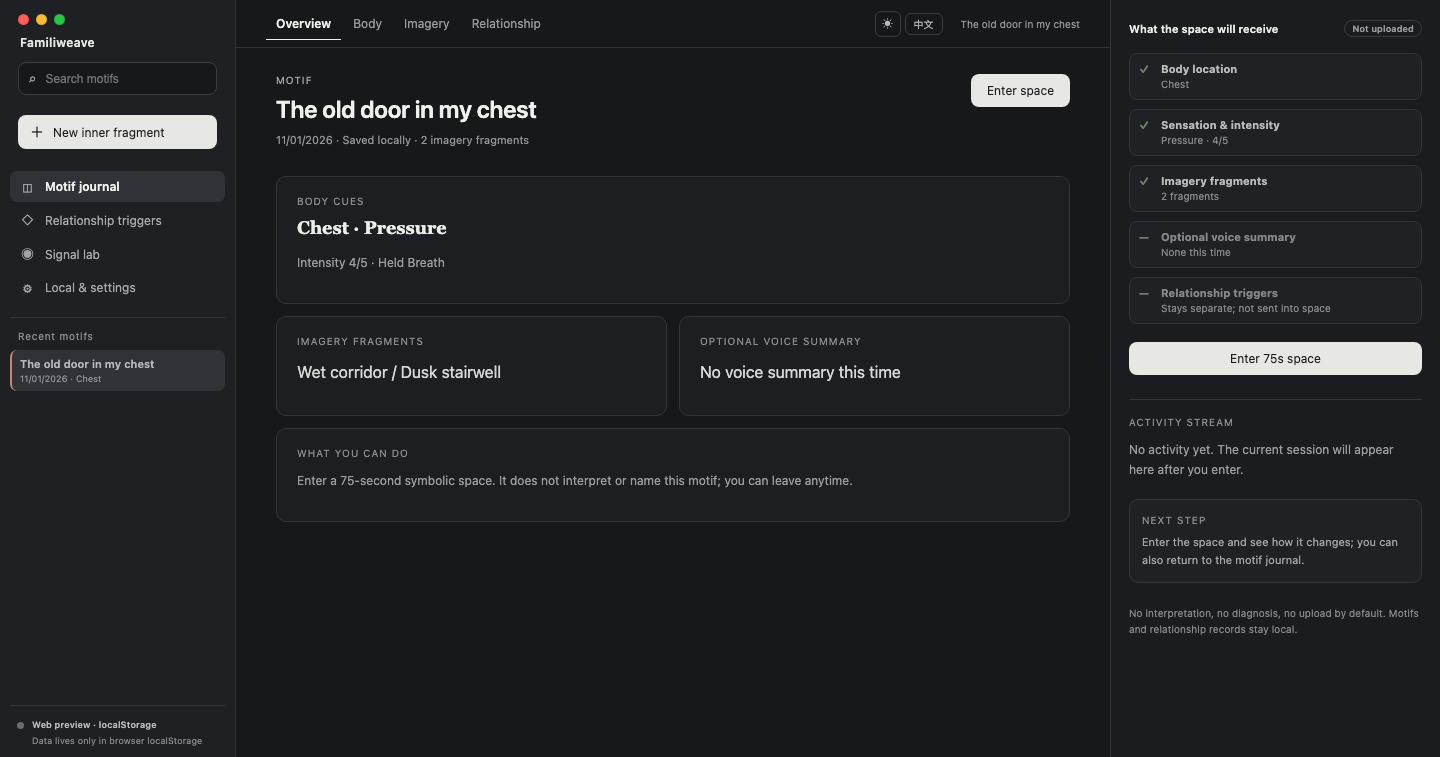
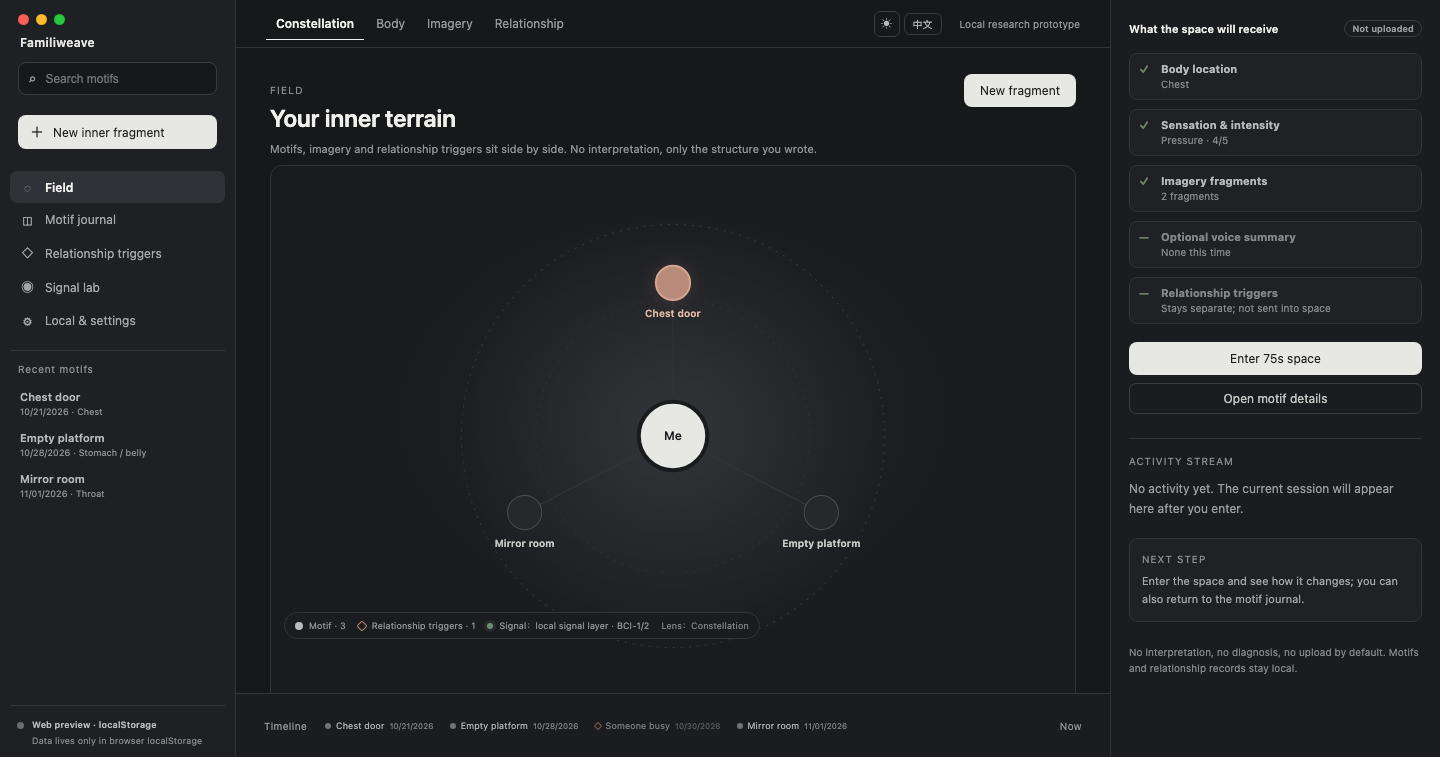
Add the Familiweave Field layout with constellation and timeline
- make Field the default workspace: motif nodes, relationship nodes, self centre, lens switch and signal legend
- add a horizontal motif/relationship timeline and keep the instrument rail for selected motif/space inputs
- preserve capture, journal, relationship, lab and space as separate modes
- update light/dark English screenshots, READMEs and desktop shell docs
- 55 tests, 307,046 B main, 47,570 B CSS

diff --git a/src/desktop-shell.tsx b/src/desktop-shell.tsx
@@ -18,10 +18,12 @@ import { useTheme } from './theme'
 import { getDbStatus, getHostInfo, isTauriRuntime, type DbStatus, type HostInfo } from './host'
 import { fragments, regions, sensations, breaths } from './somatic'
 
-type View = 'new' | 'motif' | 'journal' | 'relationship' | 'lab' | 'settings' | 'space'
+type View = 'field' | 'new' | 'motif' | 'journal' | 'relationship' | 'lab' | 'settings' | 'space'
+type FieldLens = 'constellation' | 'body' | 'imagery' | 'relations'
 type DetailTab = 'overview' | 'body' | 'imagery' | 'relationship'
 
 const navItems: Array<{ id: Exclude<View, 'motif' | 'space'>; label: string; icon: string }> = [
+  { id: 'field', label: '场域', icon: '◌' },
   { id: 'journal', label: '母题日记', icon: '◫' },
   { id: 'relationship', label: '关系触发点', icon: '◇' },
   { id: 'lab', label: '信号实验台', icon: '◉' },
@@ -114,7 +116,73 @@ function MotifDetail({ motif, tab, setTab, onEnter }: { motif: MotifEntry; tab: 
   </>
 }
 
-function ContextPanel({ motif, encounter, onEnter, onBack }: { motif: MotifEntry | null; encounter: Encounter | null; onEnter: () => void; onBack: () => void }) {
+function FieldView({ motifs, relationships, selectedId, lens, onSelect, onNew }: { motifs: MotifEntry[]; relationships: RelationshipTrigger[]; selectedId: string | null; lens: FieldLens; onSelect: (id: string) => void; onNew: () => void }) {
+  const { lang, t } = useLanguage()
+  const center = { x: 380, y: 268 }
+  const motifNodes = motifs.slice(0, 14).map((motif, index) => {
+    const angle = (Math.PI * 2 * index) / Math.max(motifs.slice(0, 14).length, 1) - Math.PI / 2
+    return { motif, x: center.x + Math.cos(angle) * 170, y: center.y + Math.sin(angle) * 152, angle }
+  })
+  const relationNodes = relationships.slice(0, 10).map((entry, index) => {
+    const angle = (Math.PI * 2 * index) / Math.max(relationships.slice(0, 10).length, 1) + Math.PI / 7
+    return { entry, x: center.x + Math.cos(angle) * 94, y: center.y + Math.sin(angle) * 82 }
+  })
+  const showRelations = lens === 'relations'
+  return <div className={`field-view lens-${lens}`}>
+    <div className="field-heading">
+      <div><p className="eyebrow">{t('场域')}</p><h1>{t('你的内在地形')}</h1><p className="workspace-meta">{t('母题、意象与关系触发点并列在这里；没有解释，只有你写下的结构。')}</p></div>
+      <button className="primary-button" onClick={onNew}>{t('新建片段')}</button>
+    </div>
+    {motifs.length === 0 && relationships.length === 0
+      ? <div className="field-empty"><p>{t('场域还是空的。先从一个身体位置开始。')}</p><button className="primary-button" onClick={onNew}>{t('开始捕获')}</button></div>
+      : <>
+        <div className="field-canvas">
+          <svg viewBox="0 0 760 536" role="img" aria-label={t('内在场域地图')}>
+            <defs><radialGradient id="field-glow"><stop offset="0%" stopColor="currentColor" stopOpacity=".16" /><stop offset="100%" stopColor="currentColor" stopOpacity="0" /></radialGradient></defs>
+            <circle cx={center.x} cy={center.y} r="210" className="field-orbit" />
+            <circle cx={center.x} cy={center.y} r="136" className="field-orbit inner" />
+            <circle cx={center.x} cy={center.y} r="220" fill="url(#field-glow)" className="field-glow" />
+            {motifNodes.map(node => <line key={`e-${node.motif.id}`} x1={center.x} y1={center.y} x2={node.x} y2={node.y} className="field-edge" />)}
+            {showRelations && relationNodes.map(node => <line key={`re-${node.entry.id}`} x1={center.x} y1={center.y} x2={node.x} y2={node.y} className="field-edge relation-edge" />)}
+            <circle cx={center.x} cy={center.y} r="34" className="field-self" />
+            <text x={center.x} y={center.y + 4} textAnchor="middle" className="field-self-label">{t('我')}</text>
+            {motifNodes.map(node => <g key={node.motif.id} role="button" tabIndex={0} className={`field-node region-${node.motif.capture.region} ${selectedId === node.motif.id ? 'selected' : ''}`} onClick={() => onSelect(node.motif.id)} onKeyDown={event => { if (event.key === 'Enter' || event.key === ' ') { event.preventDefault(); onSelect(node.motif.id) } }}>
+              <circle cx={node.x} cy={node.y} r={lens === 'imagery' ? 14 + node.motif.capture.fragments.length * 2 : 17} />
+              <text x={node.x} y={node.y + 34} textAnchor="middle" className="field-node-label">{node.motif.name ? node.motif.name.slice(0, 14) : t('未命名')}</text>
+              {lens === 'body' && <text x={node.x} y={node.y + 48} textAnchor="middle" className="field-node-sub">{localizedLabel(regions, node.motif.capture.region, lang)}</text>}
+            </g>)}
+            {showRelations && relationNodes.map(node => <g key={node.entry.id} className="field-relation-node" transform={`translate(${node.x},${node.y}) rotate(45)`}>
+              <rect x="-9" y="-9" width="18" height="18" rx="3" />
+            </g>)}
+          </svg>
+        </div>
+        <div className="field-legend">
+          <span><i className="legend-dot motif" />{t('母题')} · {motifs.length}</span>
+          <span><i className="legend-dot relation" />{t('关系触发点')} · {relationships.length}</span>
+          <span className="field-signal"><i className="signal-pulse" />{t('信号')}：{t('本机信号层')} · BCI-1/2</span>
+          <span className="field-lens-note">{t('镜头')}：{t(lens === 'constellation' ? '星座' : lens === 'body' ? '身体' : lens === 'imagery' ? '意象' : '关系')}</span>
+        </div>
+      </>}
+  </div>
+}
+
+function TimelineRail({ motifs, relationships, onSelect }: { motifs: MotifEntry[]; relationships: RelationshipTrigger[]; onSelect: (id: string) => void }) {
+  const { lang, t } = useLanguage()
+  const items = [...motifs.map(entry => ({ kind: 'motif' as const, id: entry.id, at: entry.createdAt, name: entry.name || t('未命名') })), ...relationships.map(entry => ({ kind: 'relation' as const, id: entry.id, at: entry.createdAt, name: entry.role || t('关系触发点') }))]
+    .sort((left, right) => Date.parse(left.at) - Date.parse(right.at)).slice(-12)
+  return <div className="timeline-rail">
+    <span className="timeline-label">{t('时间轴')}</span>
+    <div className="timeline-track">
+      {items.length === 0 && <span className="timeline-empty">{t('还没有记录')}</span>}
+      {items.map(item => <button key={`${item.kind}-${item.id}`} className={`timeline-item ${item.kind}`} disabled={item.kind === 'relation'} onClick={() => item.kind === 'motif' && onSelect(item.id)} title={item.name}>
+        <span className="timeline-dot" /><span className="timeline-name">{item.name}</span><span className="timeline-date">{dateLabel(item.at, lang)}</span>
+      </button>)}
+    </div>
+    <span className="timeline-now">{t('现在')}</span>
+  </div>
+}
+
+function ContextPanel({ motif, encounter, onEnter, onBack, onDetail }: { motif: MotifEntry | null; encounter: Encounter | null; onEnter: () => void; onBack: () => void; onDetail: () => void }) {
   const { lang, t } = useLanguage()
   if (encounter) {
     return <aside className="context-panel">
@@ -142,6 +210,7 @@ function ContextPanel({ motif, encounter, onEnter, onBack }: { motif: MotifEntry
       {checkItem(t('关系触发点'), false, t('不进入空间；保持独立'))}
     </ul>
     <button className="primary-button wide" disabled={!motif} onClick={onEnter}>{t('进入 75 秒空间')}</button>
+    {motif && <button className="quiet-button wide" onClick={onDetail}>{t('打开母题详情')}</button>}
     <div className="context-section">
       <p className="card-label">{t('事件流')}</p>
       <p className="muted">{t('还没有活动。进入空间后，这里会显示当前会话。')}</p>
@@ -157,7 +226,8 @@ function ContextPanel({ motif, encounter, onEnter, onBack }: { motif: MotifEntry
 export function DesktopShell() {
   const { lang, setLang, t } = useLanguage()
   const { theme, toggleTheme } = useTheme()
-  const [view, setView] = useState<View>('new')
+  const [view, setView] = useState<View>('field')
+  const [fieldLens, setFieldLens] = useState<FieldLens>('constellation')
   const [detailTab, setDetailTab] = useState<DetailTab>('overview')
   const [motifs, setMotifs] = useState<MotifEntry[]>(() => typeof window === 'undefined' ? [] : loadMotifs(window.localStorage))
   const [relationships, setRelationships] = useState<RelationshipTrigger[]>(() => typeof window === 'undefined' ? [] : loadRelationshipTriggers(window.localStorage))
@@ -191,11 +261,11 @@ export function DesktopShell() {
   const selected = motifs.find(motif => motif.id === selectedId) ?? null
   const filtered = useMemo(() => motifs.filter(motif => !search.trim() || (motif.name || '未命名').includes(search.trim())), [motifs, search])
 
-  const openNew = () => { setEncounter(null); setSelectedId(null); setView('new'); setDetailTab('overview') }
-  const openMotif = (id: string) => { setSelectedId(id); setEncounter(null); setView('motif'); setDetailTab('overview') }
+  const openNew = () => { setEncounter(null); setSelectedId(null); setView('field'); setDetailTab('overview') }
+  const openMotif = (id: string) => { setSelectedId(id); setEncounter(null); setView('field'); setDetailTab('overview') }
   const start = (next: Encounter) => { setEncounter(next); setView('space') }
   const enterSelected = () => { if (selected) start(createInnerCaptureEncounter(selected.capture)) }
-  const backFromSpace = () => { setEncounter(null); setView(selected ? 'motif' : 'new') }
+  const backFromSpace = () => { setEncounter(null); setView(selected ? 'field' : 'new') }
   const persist = (nextMotifs: MotifEntry[], nextRelationships: RelationshipTrigger[]) => {
     void saveLocalSnapshot({ motifs: nextMotifs, relationships: nextRelationships })
   }
@@ -235,9 +305,11 @@ export function DesktopShell() {
     void clearLocalSnapshot()
   }
 
-  const navView = view === 'motif' || view === 'space' ? (selected ? 'journal' : 'new') : view
+  const navView = view === 'motif' || view === 'space' ? 'field' : view
 
-  const topTabs = view === 'new'
+  const topTabs = view === 'field'
+    ? (['constellation', 'body', 'imagery', 'relations'] as FieldLens[]).map(lens => ({ id: lens, label: t(lens === 'constellation' ? '星座' : lens === 'body' ? '身体' : lens === 'imagery' ? '意象' : '关系'), active: fieldLens === lens, onClick: () => setFieldLens(lens) }))
+    : view === 'new'
     ? [
         { id: 'somatic', label: t('从身体开始'), active: !textMode, onClick: () => setTextMode(false) },
         { id: 'text', label: t('用文字'), active: textMode, onClick: () => setTextMode(true) },
@@ -296,6 +368,7 @@ export function DesktopShell() {
               <div className="scene-footer"><span>{t('不解释、不诊断；离开随时可用。')}</span><button className="quiet-button" onClick={() => setReplay(value => value + 1)}>{t('重新进入')}</button></div>
             </div>
             : <>
+              {view === 'field' && <FieldView motifs={motifs} relationships={relationships} selectedId={selectedId} lens={fieldLens} onSelect={openMotif} onNew={openNew} />}
               {(view === 'new' || view === 'motif') && <>
                 {view === 'new' && <WorkspaceHeader eyebrow={t('内在工作台')} title={t('先感觉，不用急着命名。')} meta={t('从身体、意象与关系开始；不解释，也不替你下结论。')} action={<span className="status-pill">{t('本地研究原型')}</span>} />}
                 {view === 'new' && (textMode
@@ -328,9 +401,10 @@ export function DesktopShell() {
               </>}
             </>}
         </div>
+        {view !== 'space' && <TimelineRail motifs={motifs} relationships={relationships} onSelect={openMotif} />}
       </main>
 
-      <ContextPanel motif={selected} encounter={encounter} onEnter={enterSelected} onBack={backFromSpace} />
+      <ContextPanel motif={selected} encounter={encounter} onEnter={enterSelected} onBack={backFromSpace} onDetail={() => setView('motif')} />
     </div>
   </div>
 

diff --git a/src/shell.css b/src/shell.css
@@ -304,3 +304,82 @@ body, .desktop-shell { background: #f3f3f0; color: #252825 }
 [data-theme='dark'] .motif-item .small, [data-theme='dark'] .quiet.small { border-color: #3a3c41; color: #b8babc }
 [data-theme='dark'] .host-dot { background: #6a6c70 }
 [data-theme='dark'] .host-dot.native { background: #7f9d83 }
+/* Familiweave field: a spatial constellation, not a document editor. */
+.field-view { min-height: calc(100vh - 48px - 64px); padding: 26px 34px 10px; display: flex; flex-direction: column; gap: 10px }
+.field-heading { display: flex; align-items: flex-start; justify-content: space-between; gap: 18px }
+.field-heading .eyebrow { margin-bottom: 7px; color: #8b8c90; font-size: 10px; letter-spacing: 1.2px; text-transform: uppercase }
+.field-heading h1 { margin: 0; font: 600 24px/1.3 -apple-system, BlinkMacSystemFont, "Noto Sans SC", sans-serif; color: #242528 }
+.field-canvas { flex: 1; min-height: 380px; display: flex; align-items: center; justify-content: center; border: 1px solid #e3e3e5; border-radius: 12px; background: radial-gradient(ellipse at 50% 46%, rgba(0,0,0,.025), transparent 58%), #f7f7f7 }
+.field-canvas svg { width: 100%; height: auto; max-height: 540px; overflow: visible }
+.field-orbit { fill: none; stroke: #dfe0e2; stroke-width: 1; stroke-dasharray: 2 6 }
+.field-orbit.inner { stroke: #e7e8ea }
+.field-glow { color: #8b5e54; opacity: .55 }
+.field-edge { stroke: #d6d7d9; stroke-width: 1 }
+.field-edge.relation-edge { stroke-dasharray: 3 5; stroke: #c7b8b0 }
+.field-self { fill: #2f3430; stroke: #f7f7f7; stroke-width: 4 }
+.field-self-label { fill: #f7f7f7; font: 600 12px system-ui, sans-serif }
+.field-node { cursor: pointer; outline: none }
+.field-node circle { fill: #e9e9e6; stroke: #b9bcb9; stroke-width: 1; transition: fill .16s ease, stroke .16s ease }
+.field-node:hover circle, .field-node:focus-visible circle { fill: #dedfdb; stroke: #6f7a70 }
+.field-node.selected circle { fill: #8b5e54; stroke: #8b5e54; stroke-width: 2; filter: drop-shadow(0 0 8px rgba(139,94,84,.28)) }
+.field-node text { fill: #4e554e; font: 600 10px system-ui, sans-serif; pointer-events: none }
+.field-node.selected text { fill: #fff }
+.field-node-sub { fill: #8b8e89 !important; font-weight: 400 !important; font-size: 9px !important }
+.field-node.region-head circle { fill: #e9e6e2 } .field-node.region-jaw circle { fill: #ece7e1 } .field-node.region-throat circle { fill: #e8e6e3 } .field-node.region-shoulders circle { fill: #e6e9e4 } .field-node.region-chest circle { fill: #eee4df } .field-node.region-stomach circle { fill: #eee6df } .field-node.region-back circle { fill: #e6e8e4 } .field-node.region-hands circle { fill: #e8e8e2 } .field-node.region-legs circle { fill: #e4e8e3 }
+.field-node.region-chest.selected circle, .field-node.region-stomach.selected circle, .field-node.region-head.selected circle, .field-node.region-jaw.selected circle, .field-node.region-throat.selected circle, .field-node.region-shoulders.selected circle, .field-node.region-back.selected circle, .field-node.region-hands.selected circle, .field-node.region-legs.selected circle { fill: #8b5e54; stroke: #8b5e54 }
+.field-relation-node rect { fill: transparent; stroke: #b78a79; stroke-width: 1; opacity: .65 }
+.field-legend { display: flex; flex-wrap: wrap; gap: 16px; align-items: center; color: #85878b; font-size: 10px }
+.field-legend > span { display: inline-flex; align-items: center; gap: 6px }
+.legend-dot { width: 8px; height: 8px; border-radius: 50%; display: inline-block; background: #b9bcb9 }
+.legend-dot.relation { border-radius: 2px; transform: rotate(45deg); background: transparent; border: 1px solid #b78a79 }
+.field-lens-note { margin-left: auto; color: #989a9d }
+.field-empty { flex: 1; min-height: 380px; display: flex; flex-direction: column; align-items: center; justify-content: center; gap: 10px; border: 1px dashed #dcdddf; border-radius: 12px; color: #85878b; font-size: 12px }
+.field-empty p { margin: 0 }
+.timeline-rail { flex: 0 0 64px; display: flex; align-items: center; gap: 12px; padding: 0 28px; border-top: 1px solid #e3e3e5; background: #f7f7f7; min-width: 0 }
+.timeline-label, .timeline-now { flex: 0 0 auto; color: #8f9195; font-size: 10px; letter-spacing: .3px }
+.timeline-now { color: #6d6f73 }
+.timeline-track { flex: 1; min-width: 0; display: flex; align-items: center; gap: 4px; overflow: hidden }
+.timeline-empty { color: #a0a2a5; font-size: 10px }
+.timeline-item { display: flex; align-items: center; gap: 5px; min-width: 0; max-width: 150px; padding: 5px 6px; border: 0; border-radius: 6px; background: transparent; color: #626468; font-size: 9px; text-align: left }
+.timeline-item:hover:not(:disabled) { background: #ececee; color: #2c2e31 }
+.timeline-item:disabled { cursor: default; opacity: .62 }
+.timeline-dot { width: 6px; height: 6px; flex: 0 0 auto; border-radius: 50%; background: #9da09d }
+.timeline-item.relation .timeline-dot { border-radius: 1px; transform: rotate(45deg); background: transparent; border: 1px solid #b78a79 }
+.timeline-name { overflow: hidden; text-overflow: ellipsis; white-space: nowrap }
+.timeline-date { color: #a4a6a9; white-space: nowrap; font-size: 8px }
+.quiet-button.wide { width: 100%; margin-top: 8px }
+[data-theme='dark'] .field-canvas { background: radial-gradient(ellipse at 50% 46%, rgba(255,255,255,.04), transparent 58%), #1a1b1e; border-color: #33353a }
+[data-theme='dark'] .field-heading h1 { color: #f0f0ec }
+[data-theme='dark'] .field-orbit { stroke: #34363b }
+[data-theme='dark'] .field-orbit.inner { stroke: #2b2d31 }
+[data-theme='dark'] .field-edge { stroke: #33353a }
+[data-theme='dark'] .field-edge.relation-edge { stroke: #5a4943 }
+[data-theme='dark'] .field-node circle { fill: #26282c; stroke: #4a4d51 }
+[data-theme='dark'] .field-node:hover circle, [data-theme='dark'] .field-node:focus-visible circle { fill: #303237; stroke: #8b8f89 }
+[data-theme='dark'] .field-node.selected circle { fill: #b78a79; stroke: #d2a593 }
+[data-theme='dark'] .field-node text { fill: #c7c9c6 }
+[data-theme='dark'] .field-node.selected text { fill: #17181a }
+[data-theme='dark'] .field-node-sub { fill: #929498 !important }
+[data-theme='dark'] .field-self { fill: #e7e7e3; stroke: #1a1b1e }
+[data-theme='dark'] .field-self-label { fill: #17181a }
+[data-theme='dark'] .field-node.region-head circle, [data-theme='dark'] .field-node.region-jaw circle, [data-theme='dark'] .field-node.region-throat circle, [data-theme='dark'] .field-node.region-shoulders circle, [data-theme='dark'] .field-node.region-chest circle, [data-theme='dark'] .field-node.region-stomach circle, [data-theme='dark'] .field-node.region-back circle, [data-theme='dark'] .field-node.region-hands circle, [data-theme='dark'] .field-node.region-legs circle { fill: #26282c }
+[data-theme='dark'] .field-node.selected[class*="region-"] circle { fill: #b78a79; stroke: #d2a593 }
+[data-theme='dark'] .field-legend, [data-theme='dark'] .timeline-label, [data-theme='dark'] .timeline-now, [data-theme='dark'] .timeline-empty { color: #929498 }
+[data-theme='dark'] .field-lens-note { color: #7f8185 }
+[data-theme='dark'] .field-empty { border-color: #3a3c41; color: #929498 }
+[data-theme='dark'] .timeline-rail { background: #1b1c1f; border-top-color: #33353a }
+[data-theme='dark'] .timeline-item { color: #b0b2b4 }
+[data-theme='dark'] .timeline-item:hover:not(:disabled) { background: #26282c; color: #f0f0ec }
+[data-theme='dark'] .timeline-dot { background: #707377 }
+[data-theme='dark'] .timeline-date { color: #7f8185 }
+.field-node-label { fill: #4e554e; font: 600 10px system-ui, sans-serif; pointer-events: none }
+.field-node.selected .field-node-label { fill: #8b5e54 }
+.field-signal { display: inline-flex; align-items: center; gap: 6px; color: #85878b }
+.signal-pulse { width: 6px; height: 6px; border-radius: 50%; background: #6f8d70; box-shadow: 0 0 0 3px rgba(111,141,112,.14) }
+[data-theme='dark'] .field-node-label { fill: #c7c9c6 }
+[data-theme='dark'] .field-node.selected .field-node-label { fill: #e1bba9 }
+[data-theme='dark'] .field-signal { color: #929498 }
+.field-view { position: relative }
+.field-legend { position: absolute; left: 48px; bottom: 78px; z-index: 2; padding: 6px 10px; border: 1px solid #e3e3e5; border-radius: 999px; background: rgba(247,247,247,.92); backdrop-filter: blur(6px); font-size: 9px; gap: 12px }
+[data-theme='dark'] .field-legend { background: rgba(27,28,31,.92); border-color: #33353a; color: #929498 }
+[data-theme='dark'] .timeline-rail { background: #1b1c1f }

diff --git a/src/i18n.tsx b/src/i18n.tsx
@@ -212,6 +212,21 @@ const en: Record<string, string> = {
   '切换到浅色': 'Switch to light',
   '切换到深色': 'Switch to dark',
 
+  '场域': 'Field',
+  '你的内在地形': 'Your inner terrain',
+  '母题、意象与关系触发点并列在这里；没有解释，只有你写下的结构。': 'Motifs, imagery and relationship triggers sit side by side. No interpretation, only the structure you wrote.',
+  '场域还是空的。先从一个身体位置开始。': 'The field is empty. Start with one body location.',
+  '开始捕获': 'Start capture',
+  '内在场域地图': 'Inner field map',
+  '星座': 'Constellation',
+  '镜头': 'Lens',
+  '时间轴': 'Timeline',
+  '还没有记录': 'No records yet',
+  '现在': 'Now',
+  '打开母题详情': 'Open motif details',
+  '信号': 'Signal',
+  '本机信号层': 'local signal layer',
+  'BCI-1/2 就绪': 'BCI-1/2 ready',
 }
 
 type LanguageContextValue = {

diff --git a/README.md b/README.md
@@ -6,9 +6,9 @@
 >
 > A local-first symbolic interface for the pre-verbal layer.
 
-![Familiweave 桌面外壳（浅色，英文界面）](docs/assets/desktop-shell-en.png)
+![Familiweave 内在场域（浅色，英文界面）](docs/assets/desktop-shell-en.png)
 
-![Familiweave 桌面外壳（深色，英文界面）](docs/assets/desktop-shell-dark-en.png)
+![Familiweave 内在场域（深色，英文界面）](docs/assets/desktop-shell-dark-en.png)
 
 Familiweave 由 **Inceptless** 发起，是一个关于**脑机接口与深层潜意识**的公开研究项目。
 
@@ -83,6 +83,7 @@ Familiweave 的方向不是替代语言，而是补上语言之前的入口：**
 | v1 母题日记 | 本机命名、保存、删除、导出 |
 | v2 关系触发点 | 自述场景/反应、地图、描述性计数 |
 | v3 声音摘要 | 8 秒音量/停顿；显式同意；不保存原始音频 |
+| 场域 | 母题星座、关系节点、镜头切换、时间轴、信号状态 |
 | BCI-1 | 信号源接口、模拟器、本机事件时间轴 |
 | BCI-2 | 本机 WebSocket 设备桥接契约 |
 | 桌面外壳 | Tauri 2 + Rust；SQLite 持久化；app data 文件沙箱 |

diff --git a/README.en.md b/README.en.md
@@ -6,9 +6,9 @@
 >
 > An enterable, exit-able, self-interpreted space for pre-verbal experience.
 
-![Familiweave desktop shell — light](docs/assets/desktop-shell-en.png)
+![Familiweave inner field — light](docs/assets/desktop-shell-en.png)
 
-![Familiweave desktop shell — dark](docs/assets/desktop-shell-dark-en.png)
+![Familiweave inner field — dark](docs/assets/desktop-shell-dark-en.png)
 
 Familiweave is a public research project initiated by **Inceptless** about **brain-computer interfaces and the deep subconscious**.
 
@@ -86,6 +86,7 @@ See [BCI open-source landscape](docs/vision/bci-open-source-landscape.md), [BCI-
 | v1 motif journal | Local naming, save, delete, export |
 | v2 relationship triggers | Self-authored moments/reactions, map, descriptive counts |
 | v3 voice summary | 8s volume/pause; explicit consent; no raw audio |
+| Field | Motif constellation, relationship nodes, lens switch, timeline, signal status |
 | BCI-1 | Signal source contract, simulator, local event timeline |
 | BCI-2 | Local WebSocket device bridge contract |
 | Desktop shell | Tauri 2 + Rust; SQLite; app-data file sandbox |

diff --git a/docs/refactor/plan.md b/docs/refactor/plan.md
@@ -31,7 +31,7 @@
 
 ### R0：构建与浏览器基线（完成）
 
-- 主包 301,301 B，CSS 40,336 B，合计 341,637 B；无 scene 分包。v0–v3 增加了躯体地图、意象库、本机母题日记、关系触发点/计数、本机声音摘要与整体数据导出；BCI-1/2 增加了信号源接口、LSL 模拟器、本机事件时间轴与本机设备桥接契约；桌面壳层增加了 Tauri 2 三栏工作台与 Rust 宿主。
+- 主包 307,046 B，CSS 47,570 B，合计 354,616 B；无 scene 分包。v0–v3 增加了躯体地图、意象库、本机母题日记、关系触发点/计数、本机声音摘要与整体数据导出；BCI-1/2 增加了信号源接口、LSL 模拟器、本机事件时间轴与本机设备桥接契约；桌面壳层增加了 Tauri 2 三栏工作台与 Rust 宿主。
 - `pnpm measure:build` 记录体积；`pnpm check:symbolic-path` 守卫 320,000 B 预算。
 - 本地 headless：DOMContentLoaded 51 ms、load 51 ms、first paint/FCP 72 ms。
 - 完整 75 秒相遇与 180 秒空间帧采样完成；结果见 [R0 构建基线](baseline.md)。

diff --git a/docs/refactor/baseline.md b/docs/refactor/baseline.md
@@ -6,9 +6,9 @@
 
 | 文件 | 字节 | 说明 |
 | --- | ---: | --- |
-| `index-CmkoRECd.js` | 301,301 | 主入口（深色主题后） |
-| `index-CqNaJIIP.css` | 40,336 | 样式（明暗主题 + 双语） |
-| 合计 | 341,637 | 两个产物；无 scene 分包 |
+| `index-D0fWZQv4.js` | 307,046 | 主入口（场域布局后） |
+| `index-DvYNGR0a.css` | 47,570 | 样式（场域 + 明暗主题 + 双语） |
+| 合计 | 354,616 | 两个产物；无 scene 分包 |
 
 - `sceneChunk = null`：symbolic 构建不再产生 Three.js 场景分包。
 - 文件名带 hash，会随构建变化；以本次字节数为基线，不把文件名当稳定契约。程序渲染器已移除，旧 scene 模块不再进入构建。

diff --git a/docs/desktop-shell.md b/docs/desktop-shell.md
@@ -55,7 +55,13 @@ src/
 
 ## 4. 三栏工作台
 
-参考 inceptless 的布局与中性纸面/墨色美术：
+Familiweave 自己的默认布局不是文档编辑器，而是 **场域（Field）**：
+
+- 中间：母题星座 + 关系节点；顶部镜头切换 Constellation / Body / Imagery / Relationship；底部时间轴。
+- 右侧：所选母题将送入空间的内容、事件流、下一步。
+- 左侧：模式导航、最近母题、宿主状态。
+
+视觉参考 inceptless 的中性纸面/墨色：
 
 - **左侧**：新建、搜索、导航、最近母题、宿主状态。
 - **中间**：新建捕获（身体地图/文字）或母题详情（总览/身体/意象/关系）。
